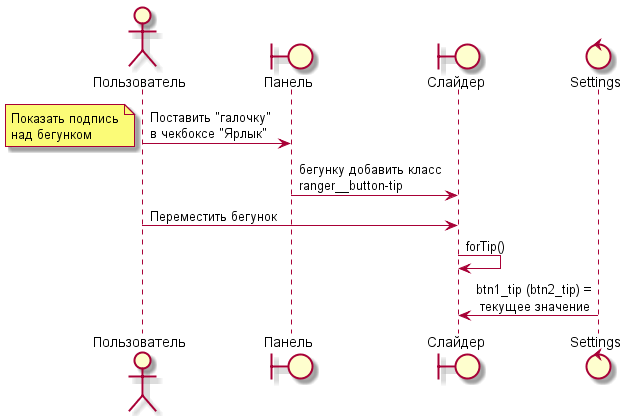
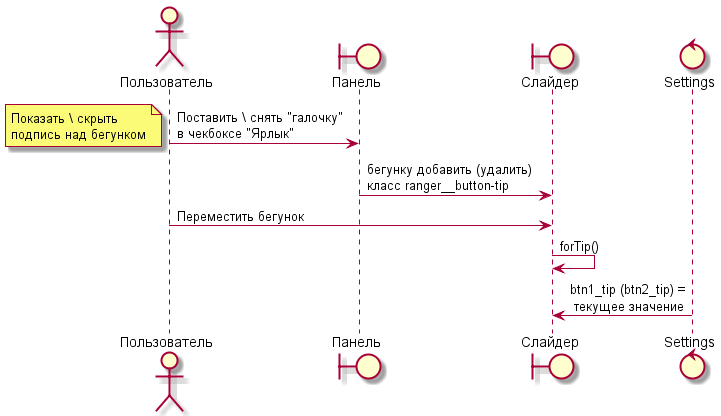
Дополнил диаграмму последовательности показа надписи над бегунком процедурой скрытия

diff --git a/readme.md b/readme.md
@@ -83,6 +83,6 @@ $ npx jest --coverage
 
 ![Два бегунка на слайдере](/out/src/uml/sequence_2runners/sequence_2runners.png)
 
-### Диаграмма демонстрации текущего значения слайдера над бегунком
+### Диаграмма показа (скрытия) текущего значения слайдера над бегунком
 
-![показать надпись над бегунком](/out/src/uml/sequence_with_tip/sequence_with_tip.png)
+![показать (скрыть) надпись над бегунком](/out/src/uml/sequence_with_tip/sequence_with_tip.png)
